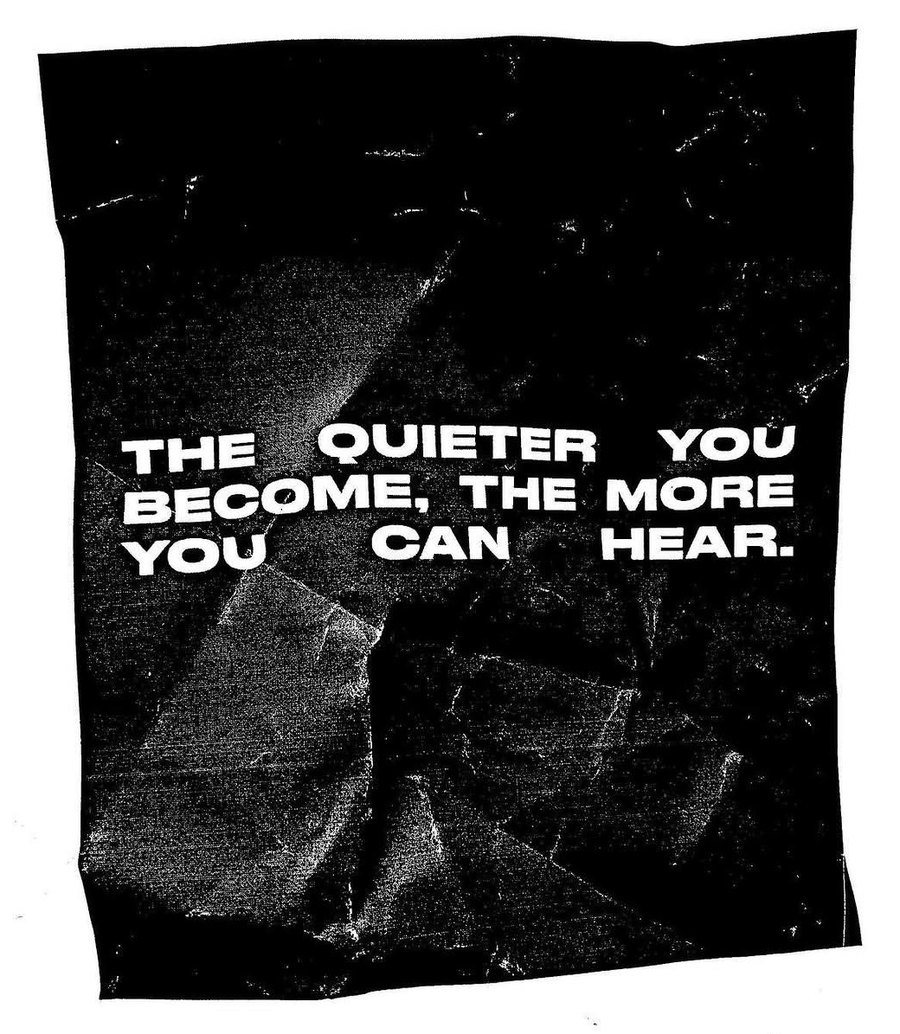
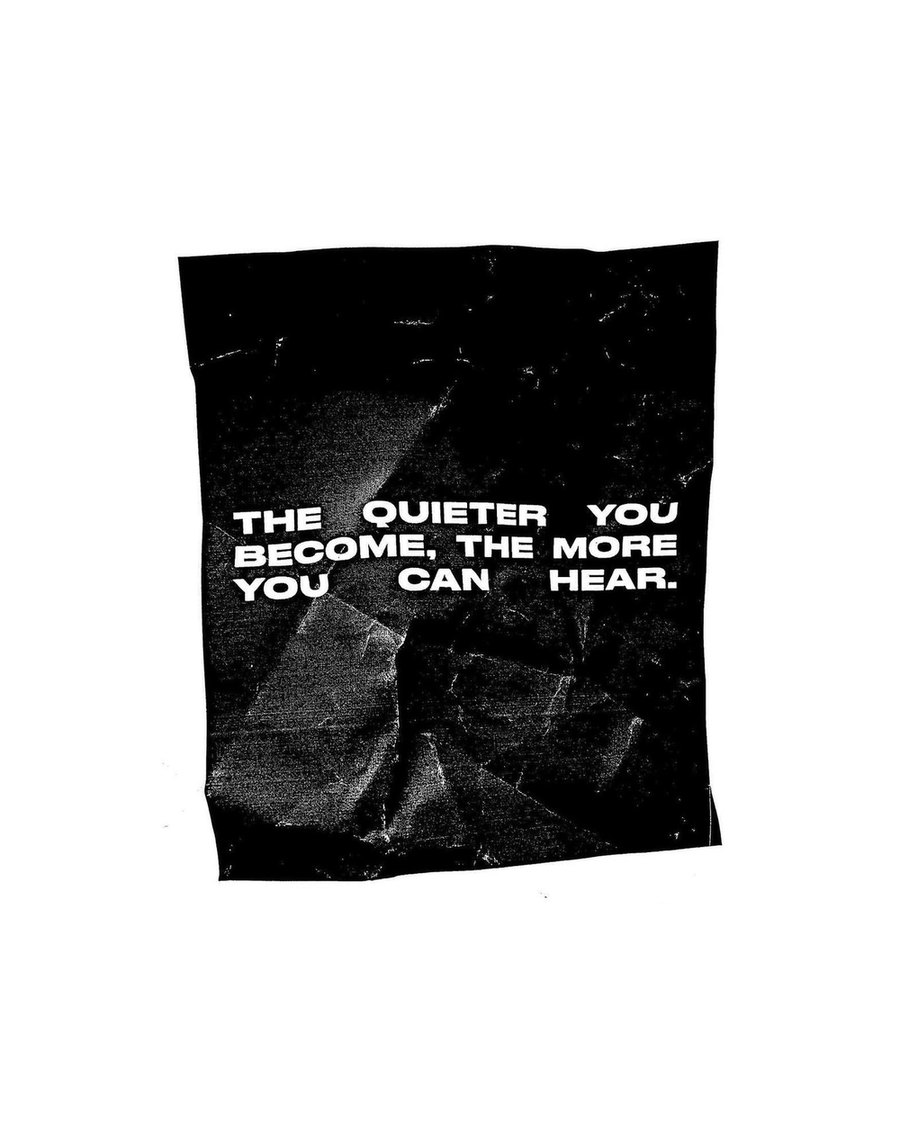
Phones: playground is a sideways two-row strip with every photo; tap to open a full-screen viewer and swipe between photos. Quieter poster gets more white space
Claude-Session: https://claude.ai/code/session_01EAqpN8ayeNdaSbkqQzbbPy

diff --git a/portfolio/assets/js/site.js b/portfolio/assets/js/site.js
@@ -677,12 +677,11 @@
     function layout() {
       if (!homes.length) return;
       var N = cards.length;
-      if (simple) { // each photo drifts at its own gentle rate around the middle of the screen
-        var vh0 = window.innerHeight; pg.classList.add('is-settled');
+      if (simple) { // phones: a sideways strip; each photo keeps only its little resting tilt
+        pg.classList.add('is-settled');
         cards.forEach(function (c, n) {
-          var sr = slots[n].getBoundingClientRect(), mid = sr.top + sr.height / 2 - vh0 / 2;
-          var rate = .03 + rnd(n, 2.171) * .06, tilt = rnd(n, 3.731) < .2 ? (rnd(n, 9.17) < .5 ? -1 : 1) * (1.5 + rnd(n, 5.33) * 2.5) : 0;
-          c.style.transform = 'translate3d(0,' + (-mid * rate).toFixed(1) + 'px,0) rotate(' + tilt.toFixed(2) + 'deg)';
+          var tilt = rnd(n, 3.731) < .2 ? (rnd(n, 9.17) < .5 ? -1 : 1) * (1 + rnd(n, 5.33) * 1.5) : 0;
+          c.style.transform = tilt ? 'rotate(' + tilt.toFixed(2) + 'deg)' : '';
           if (c._blur) { c._blur = 0; c.style.filter = ''; }
         });
         return;
@@ -744,7 +743,7 @@
     // when the visitor rests mid-way through the pin, the photos float on into the grid by themselves
     function kick() { if (!ticking) { ticking = true; requestAnimationFrame(tick); } }
     window.addEventListener('scroll', function () {
-      if (simple) { if (!ticking) { ticking = true; requestAnimationFrame(function () { ticking = false; layout(); }); } return; }
+      if (simple) return;
       var p = progress();
       if (p <= .001) latched = false;
       target = latched ? 1 : p;
@@ -761,6 +760,44 @@
     measure();
   }
   if (!reduce) document.querySelectorAll('[data-playground]').forEach(initPlayground);
+
+  /* Playground viewer (phones): tap a photo to open it full screen; swipe between photos; tap the X, the backdrop or press Esc to close */
+  document.querySelectorAll('[data-playground]').forEach(function (pg) {
+    var imgs = Array.prototype.slice.call(pg.querySelectorAll('.pg_card img'));
+    if (!imgs.length) return;
+    var lb = null, track = null, count = null, lastFocus = null;
+    function build() {
+      lb = document.createElement('div'); lb.className = 'pg-lb'; lb.setAttribute('role', 'dialog'); lb.setAttribute('aria-modal', 'true'); lb.setAttribute('aria-label', 'Playground photos');
+      lb.innerHTML = '<button class="pg-lb_close" type="button" aria-label="Close"><svg viewBox="0 0 24 24" fill="none" stroke="currentColor" stroke-width="1.6" stroke-linecap="round"><path d="M5 5l14 14M19 5L5 19"/></svg></button><div class="pg-lb_track"></div><div class="pg-lb_count" aria-live="polite"></div>';
+      track = lb.querySelector('.pg-lb_track'); count = lb.querySelector('.pg-lb_count');
+      imgs.forEach(function (im) {
+        var it = document.createElement('div'); it.className = 'pg-lb_item';
+        var big = document.createElement('img'); big.alt = im.alt || ''; big.loading = 'lazy'; big.decoding = 'async'; big.src = im.currentSrc || im.src;
+        it.appendChild(big); track.appendChild(it);
+      });
+      lb.querySelector('.pg-lb_close').addEventListener('click', close);
+      track.addEventListener('click', function (e) { if (e.target.tagName !== 'IMG') close(); });
+      track.addEventListener('scroll', function () { var i = Math.round(track.scrollLeft / (track.clientWidth || 1)); count.textContent = (i + 1) + ' / ' + imgs.length; }, { passive: true });
+      document.body.appendChild(lb);
+    }
+    function open(i) {
+      if (!lb) build();
+      lastFocus = document.activeElement;
+      document.documentElement.classList.add('pg-lb-open');
+      track.style.scrollSnapType = 'none'; track.scrollLeft = i * track.clientWidth; track.style.scrollSnapType = '';
+      count.textContent = (i + 1) + ' / ' + imgs.length;
+      requestAnimationFrame(function () { lb.classList.add('is-open'); lb.querySelector('.pg-lb_close').focus({ preventScroll: true }); });
+    }
+    function close() {
+      if (!lb || !lb.classList.contains('is-open')) return;
+      lb.classList.remove('is-open'); document.documentElement.classList.remove('pg-lb-open');
+      if (lastFocus && lastFocus.focus) lastFocus.focus({ preventScroll: true });
+    }
+    document.addEventListener('keydown', function (e) { if (e.key === 'Escape') close(); });
+    imgs.forEach(function (im, i) {
+      im.closest('.pg_card').addEventListener('click', function () { if (window.innerWidth < 768) open(i); });
+    });
+  });
 
   /* Footer clouds: fade in once loaded */
   document.querySelectorAll('img.footer_bg').forEach(function (im) {

diff --git a/portfolio/assets/css/custom.css b/portfolio/assets/css/custom.css
@@ -753,3 +753,28 @@ body:has(.hero.cc-glow) .page-main { background: #fbfaf7; }
 
 /* tight tracking was eating the word gaps ("witha") on iOS: give spaces a little air */
 .h1, .h2, .h3, h1, h2, h3 { word-spacing: .06em; }
+
+/* pg-strip: on phones the playground is a two-row strip that scrolls sideways; tap a photo to open it */
+@media (max-width: 767px) {
+  .pg .pg_grid { grid-template-columns: none; grid-template-rows: repeat(2, auto); grid-auto-flow: column; grid-auto-columns: max-content;
+    gap: 1.25rem 1rem; align-items: center; justify-items: center; overflow-x: auto; overflow-y: hidden; overscroll-behavior-x: contain;
+    -webkit-overflow-scrolling: touch; scrollbar-width: none; padding: 1.5rem var(--_layout---columns--gutter, 1rem) 2rem; scroll-padding-inline: var(--_layout---columns--gutter, 1rem); }
+  .pg .pg_grid::-webkit-scrollbar { display: none; }
+  .pg .pg_slot, .pg .pg_slot:nth-child(n) { display: flex; width: auto; }
+  .pg .pg_card { width: auto; height: 46vw; pointer-events: auto; cursor: zoom-in; -webkit-tap-highlight-color: transparent; }
+  .pg .pg_card:active { filter: brightness(.94); }
+}
+.pg-lb { position: fixed; inset: 0; z-index: 1000; background: rgba(251, 250, 247, .94); -webkit-backdrop-filter: blur(14px); backdrop-filter: blur(14px);
+  opacity: 0; visibility: hidden; transition: opacity .3s ease, visibility 0s linear .3s; }
+.pg-lb.is-open { opacity: 1; visibility: visible; transition: opacity .3s ease; }
+.pg-lb_track { position: absolute; inset: 0; display: flex; overflow-x: auto; scroll-snap-type: x mandatory; scrollbar-width: none; overscroll-behavior: contain; }
+.pg-lb_track::-webkit-scrollbar { display: none; }
+.pg-lb_item { flex: 0 0 100%; height: 100%; scroll-snap-align: center; scroll-snap-stop: always; display: flex; align-items: center; justify-content: center; padding: 4.5rem 1rem 3.5rem; }
+.pg-lb_item img { max-width: 100%; max-height: 100%; object-fit: contain; border-radius: 2px; box-shadow: 0 2px 6px #0000000f, 0 24px 60px -20px #00000040;
+  transform: scale(.94); transition: transform .45s cubic-bezier(.16, 1, .3, 1); }
+.pg-lb.is-open .pg-lb_item img { transform: none; }
+.pg-lb_close { position: absolute; top: max(1rem, env(safe-area-inset-top)); right: 1rem; z-index: 2; width: 44px; height: 44px; border: 0; border-radius: 50%;
+  background: transparent; color: #1d1d1d; display: flex; align-items: center; justify-content: center; cursor: pointer; }
+.pg-lb_close svg { width: 22px; height: 22px; }
+.pg-lb_count { position: absolute; left: 0; right: 0; bottom: max(1.1rem, env(safe-area-inset-bottom)); text-align: center; font-size: .75rem; letter-spacing: .08em; color: #1d1d1d99; }
+html.pg-lb-open, html.pg-lb-open body { overflow: hidden; }
